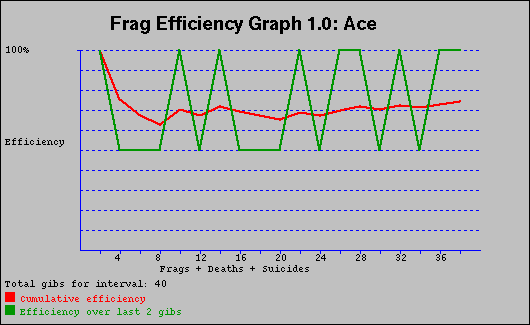
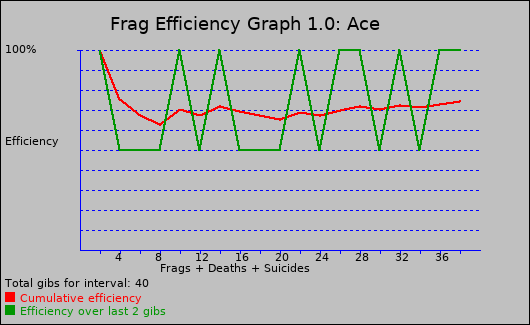
feat: anti-aliased fonts in webreprt/fraggraph graphs
The graph clients compiled in bitmap BDF fonts for their titles/labels.
They now prefer a scalable, anti-aliased TrueType font (DejaVu Sans /
Arial / Liberation) loaded via FreeType, falling back to the compiled-in
BDF fonts when no TTF is found or the library lacks FreeType -- so the
graphs are self-contained and still build/run everywhere, but get crisp
AA text when possible.

A small load_font() helper (preferring TTF at a pixel size, else the BDF
data) replaces the direct ILoadFontFromData calls in each tool. The
committed sample images (docs/images/clients/fraggraph.png, webreprt.png)
are regenerated with the AA text.

diff --git a/clients/iwebreprt/iwebreprt.c b/clients/iwebreprt/iwebreprt.c
@@ -623,6 +623,39 @@ static void add_time ( char *text )
 #define BOTTOM_PAD 55
 #define DATA_WIDTH 15
 #define DATA_HEIGHT 200
+
+/* Return a usable system TrueType font path, or NULL if none is found. */
+static const char *ttf_font_path ( void )
+{
+  static const char *cands[] = {
+    "/usr/share/fonts/truetype/dejavu/DejaVuSans.ttf",
+    "/usr/share/fonts/truetype/liberation/LiberationSans-Regular.ttf",
+    "/usr/share/fonts/dejavu/DejaVuSans.ttf", "/Library/Fonts/Arial.ttf",
+    "/System/Library/Fonts/Supplemental/Arial.ttf", NULL };
+  int i;
+  for ( i = 0; cands[i]; i++ ) {
+    FILE *f = fopen ( cands[i], "rb" );
+    if ( f ) {
+      fclose ( f );
+      return ( cands[i] );
+    }
+  }
+  return ( NULL );
+}
+
+/* Load an anti-aliased TrueType font at ttf_size px when available, otherwise
+   the compiled-in bitmap font. */
+static IError load_font ( const char *name, int ttf_size, char **bdf_fallback,
+  IFont *out )
+{
+  const char *path = ttf_font_path ();
+  if ( path &&
+       ILoadFontFromFileTTF ( (char *) name, (char *) path, ttf_size, out ) ==
+         INoError )
+    return ( INoError );
+  return ( ILoadFontFromData ( (char *) name, bdf_fallback, out ) );
+}
+
 static void generate_gif ( void )
 {
   int loop;
@@ -704,8 +737,9 @@ static void generate_gif ( void )
   if ( display_header ) {
     sprintf ( temp, "WebReport 1.0" );
   }
-  ILoadFontFromData ( "courR10", courR10_font, &courR10 );
-  ILoadFontFromData ( "helvB18", helvB18_font, &helvB18 );
+  /* Prefer anti-aliased TrueType, falling back to the compiled-in BDF fonts. */
+  load_font ( "label", 11, courR10_font, &courR10 );
+  load_font ( "title", 18, helvB18_font, &helvB18 );
 
   /* Draw title */
   ISetFont ( gc, helvB18 );

diff --git a/clients/ifraggraph/ifraggraph.c b/clients/ifraggraph/ifraggraph.c
@@ -67,6 +67,38 @@ static int calc_max (
 #endif
 );
 
+/* Return a usable system TrueType font path, or NULL if none is found. */
+static const char *ttf_font_path ( void )
+{
+  static const char *cands[] = {
+    "/usr/share/fonts/truetype/dejavu/DejaVuSans.ttf",
+    "/usr/share/fonts/truetype/liberation/LiberationSans-Regular.ttf",
+    "/usr/share/fonts/dejavu/DejaVuSans.ttf", "/Library/Fonts/Arial.ttf",
+    "/System/Library/Fonts/Supplemental/Arial.ttf", NULL };
+  int i;
+  for ( i = 0; cands[i]; i++ ) {
+    FILE *f = fopen ( cands[i], "rb" );
+    if ( f ) {
+      fclose ( f );
+      return ( cands[i] );
+    }
+  }
+  return ( NULL );
+}
+
+/* Load an anti-aliased TrueType font at ttf_size px when one is available,
+   otherwise the compiled-in bitmap font. */
+static IError load_font ( const char *name, int ttf_size, char **bdf_fallback,
+  IFont *out )
+{
+  const char *path = ttf_font_path ();
+  if ( path &&
+       ILoadFontFromFileTTF ( (char *) name, (char *) path, ttf_size, out ) ==
+         INoError )
+    return ( INoError );
+  return ( ILoadFontFromData ( (char *) name, bdf_fallback, out ) );
+}
+
 
 /*
 ** Define start and stop times.  Use YYMMDDHHMMSS so that we can just
@@ -238,8 +270,9 @@ static void generate_gif ( void )
 
   /* draw title */
   sprintf ( temp, "Frag Efficiency Graph 1.0: %s", player );
-  ILoadFontFromData ( "courR10", courR10_font, &courR10 );
-  ILoadFontFromData ( "helvB18", helvB18_font, &helvB18 );
+  /* Prefer anti-aliased TrueType, falling back to the compiled-in BDF fonts. */
+  load_font ( "label", 11, courR10_font, &courR10 );
+  load_font ( "title", 18, helvB18_font, &helvB18 );
 
   /* Draw title */
   ISetFont ( gc, helvB18 );

diff --git a/CHANGELOG.md b/CHANGELOG.md
@@ -168,6 +168,10 @@ without breaking the public API.
 - `SPDX-License-Identifier` headers across the sources.
 
 ### Changed
+- The `ilib-webreprt` and `ilib-fraggraph` graphs now render their titles and
+  labels with an anti-aliased TrueType font when one is available on the system
+  (DejaVu Sans / Arial), falling back to the compiled-in bitmap fonts
+  otherwise. The committed sample images are regenerated with the AA text.
 - The bundled command-line tools and examples now install with an `ilib-`
   prefix (`iconvert` → `ilib-convert`, `ifont2h` → `ilib-font2h`, `iindex` →
   `ilib-index`, `idisplayfont` → `ilib-displayfont`, `ifraggraph` →